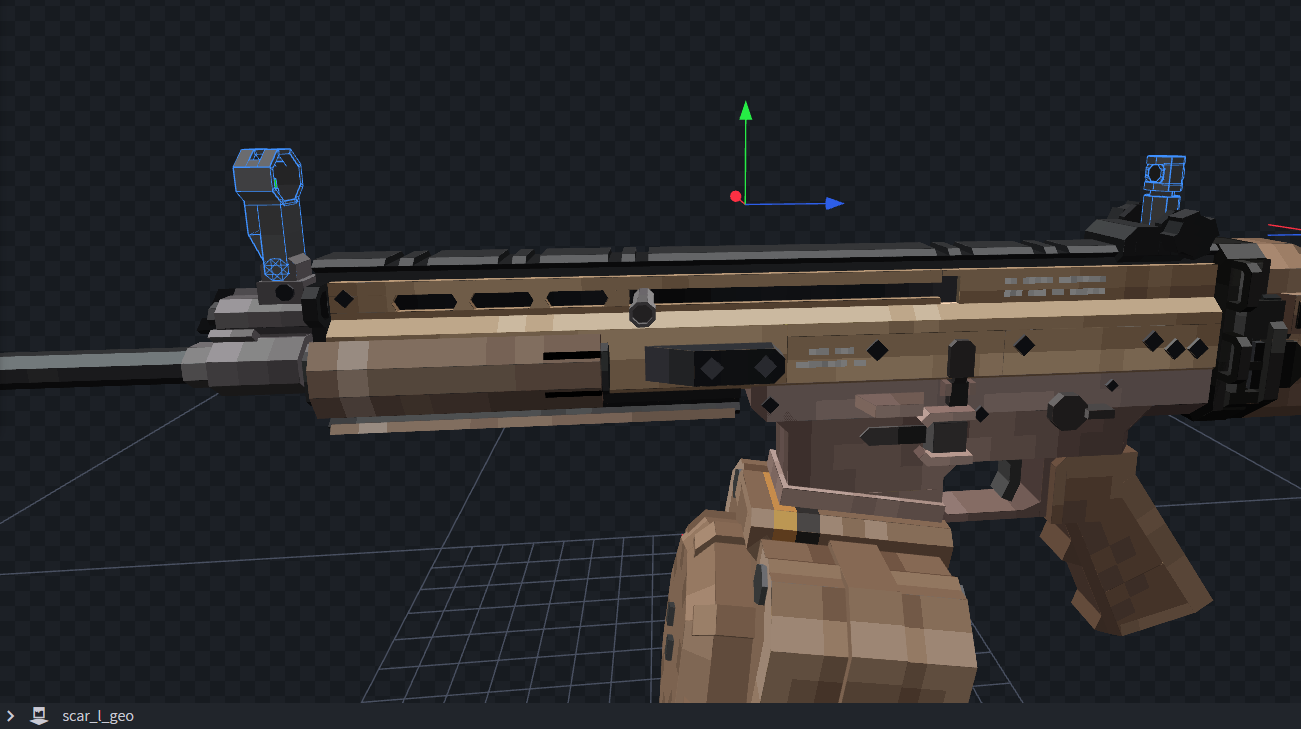
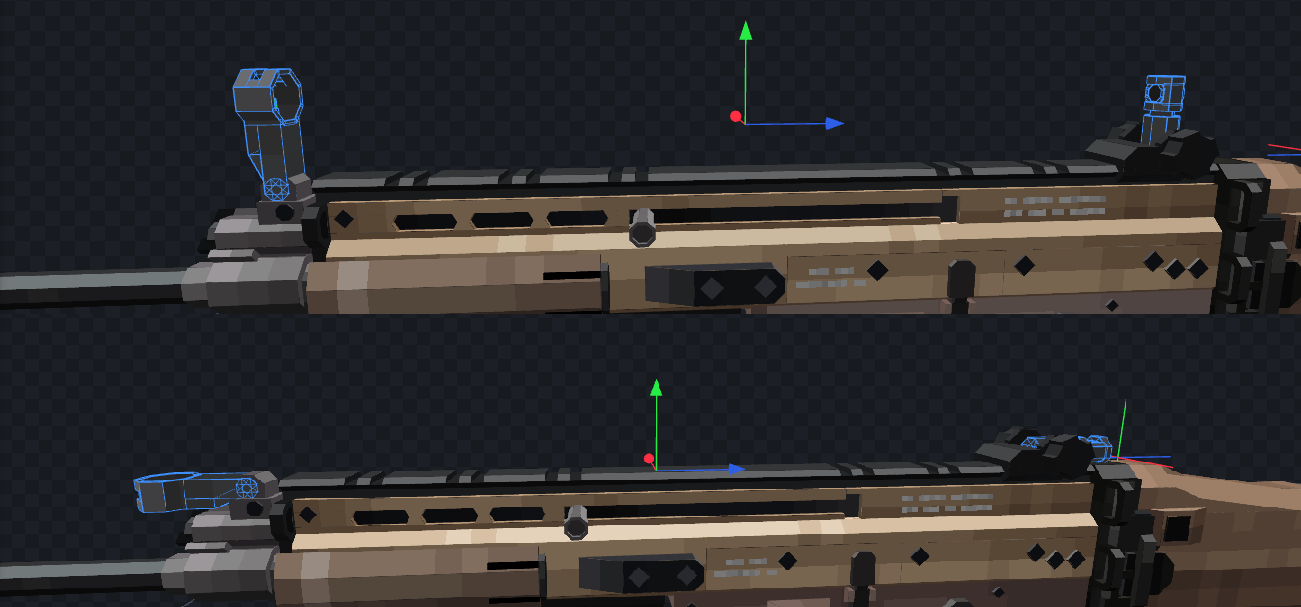
补充具有特殊功能的组名的内容

diff --git a/docs/zh/gunpack/gun/03_sp_group_name.md b/docs/zh/gunpack/gun/03_sp_group_name.md
@@ -81,7 +81,6 @@ order: 3
 ::: tip
 可以依靠这两个组的特性，制作折叠基础瞄具的效果。
 ![sight](/gunpack/gun/sight/sight.png)
-![sight_folded](/gunpack/gun/sight/sight_folded.png)
 :::
 
 ### **muzzle_default**
@@ -103,7 +102,7 @@ order: 3
 :::
 
 ### **muzzle_flash**
-枪口火焰组，用于定位渲染枪口火焰贴图渲染的位置，以及第一人称下发射曳光弹的位置。
+枪口火焰组，用于定位渲染枪口火焰贴图渲染的位置，以及第一人称视角下发射曳光弹的位置。
 
 ### **配件定位组**
 用来确定配件安装时，配件渲染的位置。  
